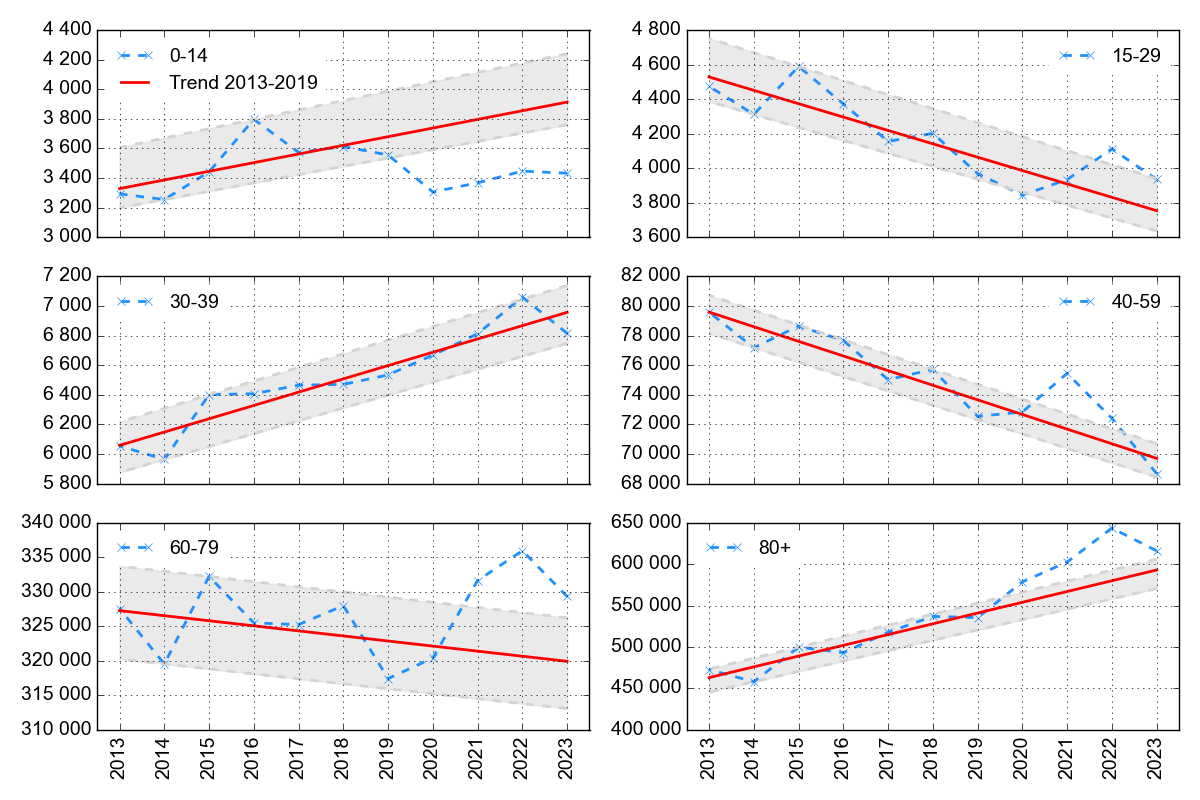
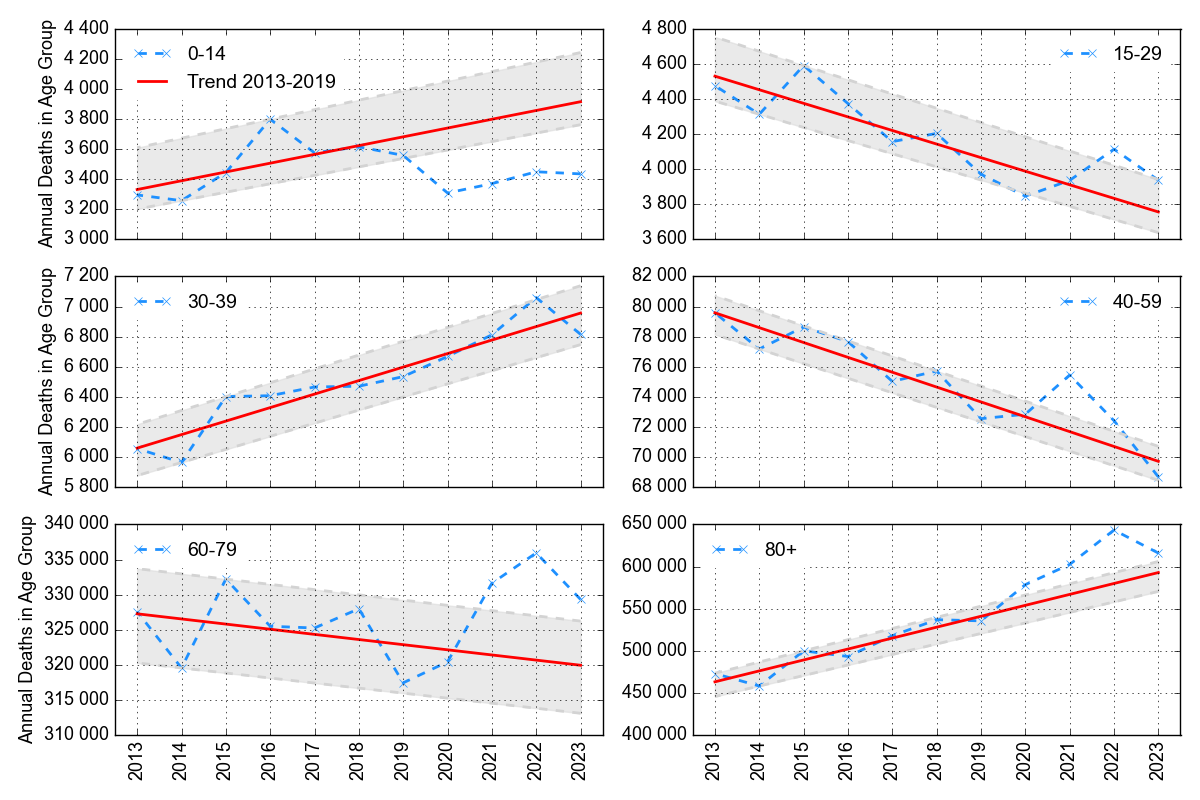
Y-Achsen, bis S7

Changed region(s): [[0.0, 0.0312, 0.9867, 0.9688], [0.2467, 0.8438, 0.2775, 0.875]]

diff --git a/article/code/Fig 5 Ex 15-29 plus Abwasser.py b/article/code/Fig 5 Ex 15-29 plus Abwasser.py
@@ -44,7 +44,7 @@ plt.clf()
 plt.style.use("classic")
 plt.rcParams["lines.linewidth"]=2
 plt.rcParams['font.family'] = 'Arial'
-plt.rcParams["font.size"]=14
+plt.rcParams["font.size"]=13
 plt.rcParams['axes.prop_cycle'] = cycler('color',
                                          plt.get_cmap('Paired').colors)
 
@@ -79,13 +79,7 @@ for m in monate:
     d_lo.append(xtrapol1*(1+min_sigma))
     d_hi.append(xtrapol1*(1+max_sigma))
     
-    #--------
-    # t_16_19=df[df.keys()[m]].to_numpy()[3:7]
-    # lr2=linregress(y_16_19,t_16_19)
-    # xtrapol2=lr2.intercept+lr2.slope*2022
-    # bl_16_19.append(xtrapol2)
-
-#t=df[df["Jahr"]==2022].to_numpy()[0][1:13]
+  
 
 plt.xlim(1,12)
 plt.xticks(monate,labels=[])
@@ -93,7 +87,7 @@ plt.ylim(240,460)
 plt.grid(True)
 
 plt.plot(monate,bl_13_19,label="Trend Projection from 2013-2019")
-
+plt.ylabel("Deaths per month in Age Group 15-29")
 #plt.plot(monate,bl_16_19,label="16-19")
 t_2022=df[df["Jahr"]==2022].to_numpy()[0][1:13]
 
@@ -144,4 +138,4 @@ plt.plot(abwasser["Monat"],abwasser["viruslast"]/4000,label="Wastewater Load (sc
 
 plt.legend(loc="upper left",edgecolor="none",fontsize=10)
 
-plt.savefig("../figures/Fig 6 EXZM 15-29 in 2022 plus Abwasser.png")
+plt.savefig("../figures/Fig 4 Exm 15-29 in 2022 plus Abwasser.png")

diff --git a/article/code/Fig 3 11c AG 3 neue gruppen 40-59 60-79 80+.py b/article/code/Fig 3 11c AG 3 neue gruppen 40-59 60-79 80+.py
@@ -31,7 +31,7 @@ fig,ax=plt.subplots(3,2,figsize=(12,8),dpi=100)
 plt.style.use("classic")
 plt.rcParams["lines.linewidth"]=2
 plt.rcParams['font.family'] = 'Arial'
-plt.rcParams["font.size"]=14
+plt.rcParams["font.size"]=13
 plt.rcParams['axes.prop_cycle'] = cycler('color',
                                          plt.get_cmap('Paired').colors)
 
@@ -89,7 +89,7 @@ for ag in (ag0,ag15,ag30,ag40,ag60,ag80):
     x=k%2
     y=k//2
     
-    
+    if x==0:ax[y,x].set_ylabel("Annual Deaths in Age Group")
     ax[y,x].grid(True)
     ax[y,x].plot(jahre,ag,label=lbls[k],marker="x",linestyle="--",color="dodgerblue")
     

diff --git a/article/code/Fig 4 upper.py b/article/code/Fig 4 upper.py
@@ -19,7 +19,7 @@ fig,ax=plt.subplots(1,1,figsize=(12,8),dpi=100)
 plt.style.use("classic")
 plt.rcParams["lines.linewidth"]=2
 plt.rcParams['font.family'] = 'Arial'
-plt.rcParams["font.size"]=14
+plt.rcParams["font.size"]=13
 plt.rcParams['axes.prop_cycle'] = cycler('color',
                                          plt.get_cmap('Paired').colors)
 
@@ -51,6 +51,8 @@ ax.plot(ag[1:8],f,ls="-",lw=2,color="dodgerblue",
 
 ax.set_yscale("log")
 ax.set_xlabel("Median of age brackets")
+
+ax.set_ylabel("Deaths normalised to members of Age Group")
 ax.grid(True)
 ax.legend(loc="upper left",edgecolor="white")
 

diff --git a/article/code/Fig 1 neu lr 13-19 inkl. Werte.py b/article/code/Fig 1 neu lr 13-19 inkl. Werte.py
@@ -45,7 +45,7 @@ plt.figure(figsize=(10,7),dpi=100)
 plt.clf()
 plt.style.use("classic")
 plt.rcParams['font.family'] = 'Arial'
-
+plt.rcParams['font.size'] = 13
 plt.xlim(2009,2024)
 plt.ylim(8e5,1.1e6)
 
@@ -66,7 +66,8 @@ ax.set_yticks(np.linspace(8e5,1.1e6,7))
 ax.yaxis.set_major_formatter(FuncFormatter(format_func))
 
 
-plt.xlabel("Year",fontsize="16")
+plt.xlabel("Year")
+plt.ylabel("Annual Deaths")
 ax.spines[:].set_color('black')
 
 f1= 951834+11328*(j-2019)

diff --git a/article/code/Fig 4 lower.py b/article/code/Fig 4 lower.py
@@ -48,6 +48,8 @@ ax.plot(ag[1:],f[1:],ls="-",lw=2,color="dodgerblue",
 
 ax.set_yscale("log")
 ax.set_xlabel("Median of age brackets")
+
+ax.set_ylabel("Relative Risk for Excess Deaths in Age Group")
 ax.grid(True)
 ax.legend(loc="upper left",edgecolor="white")
 
